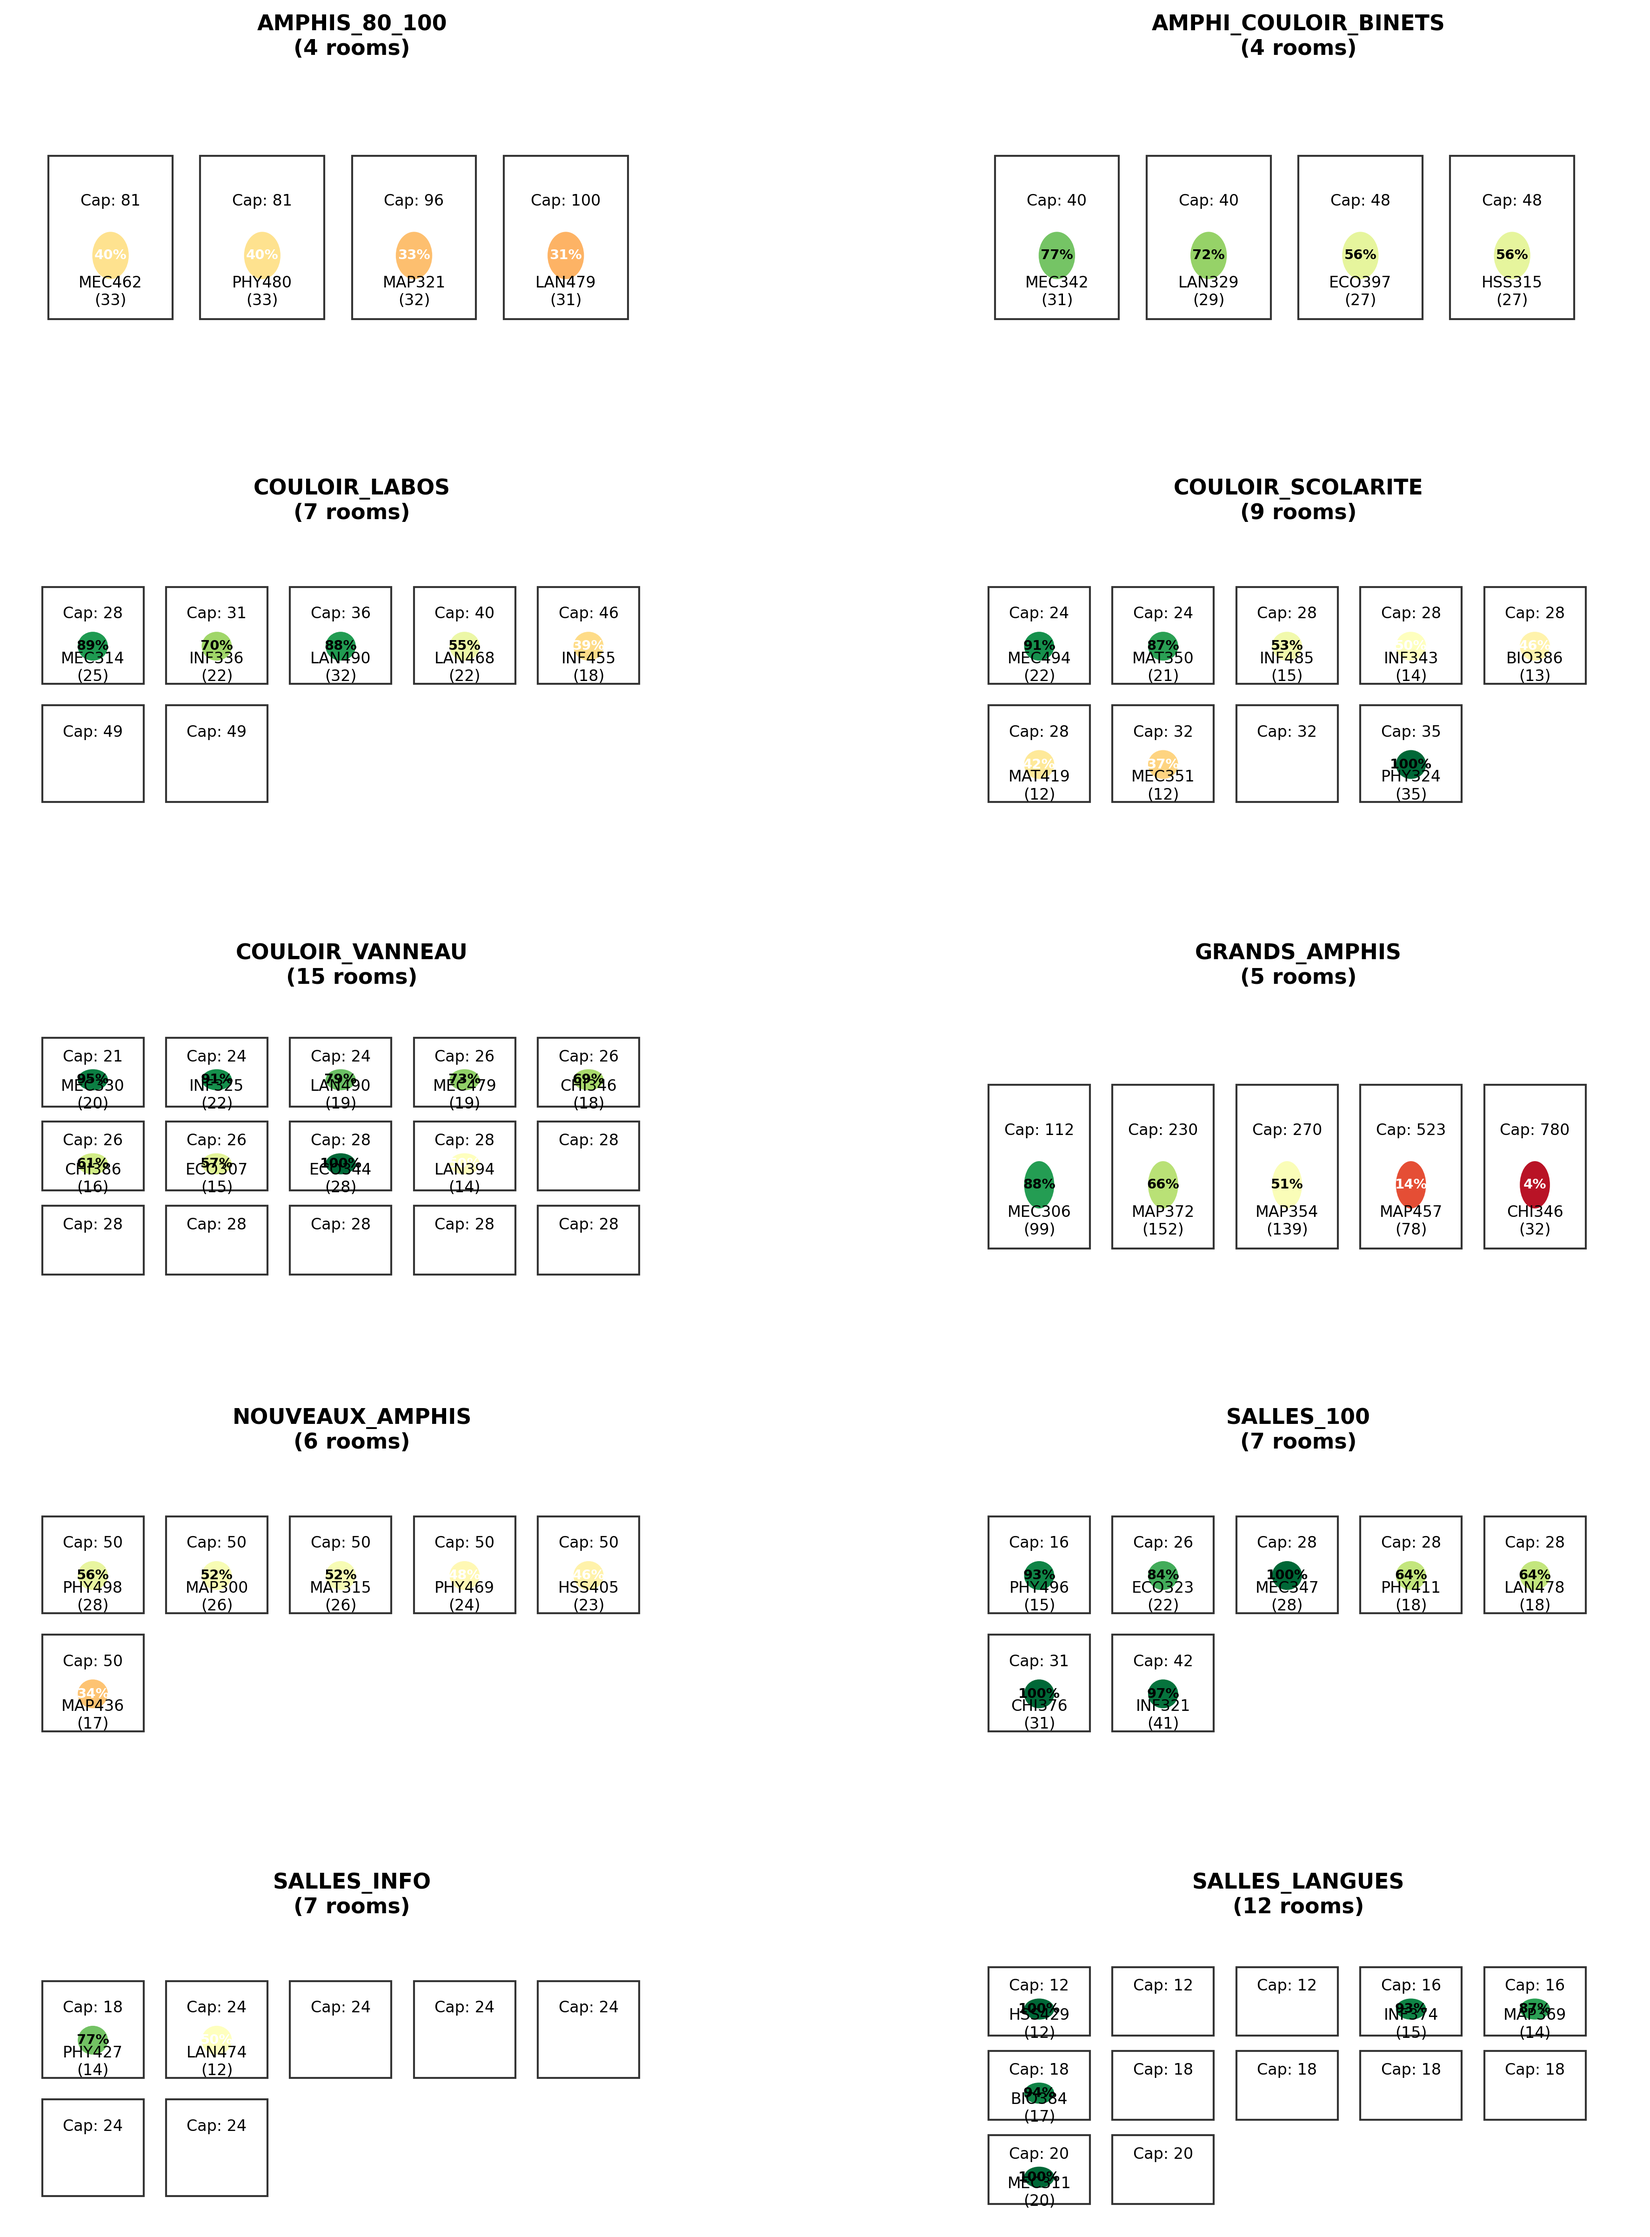
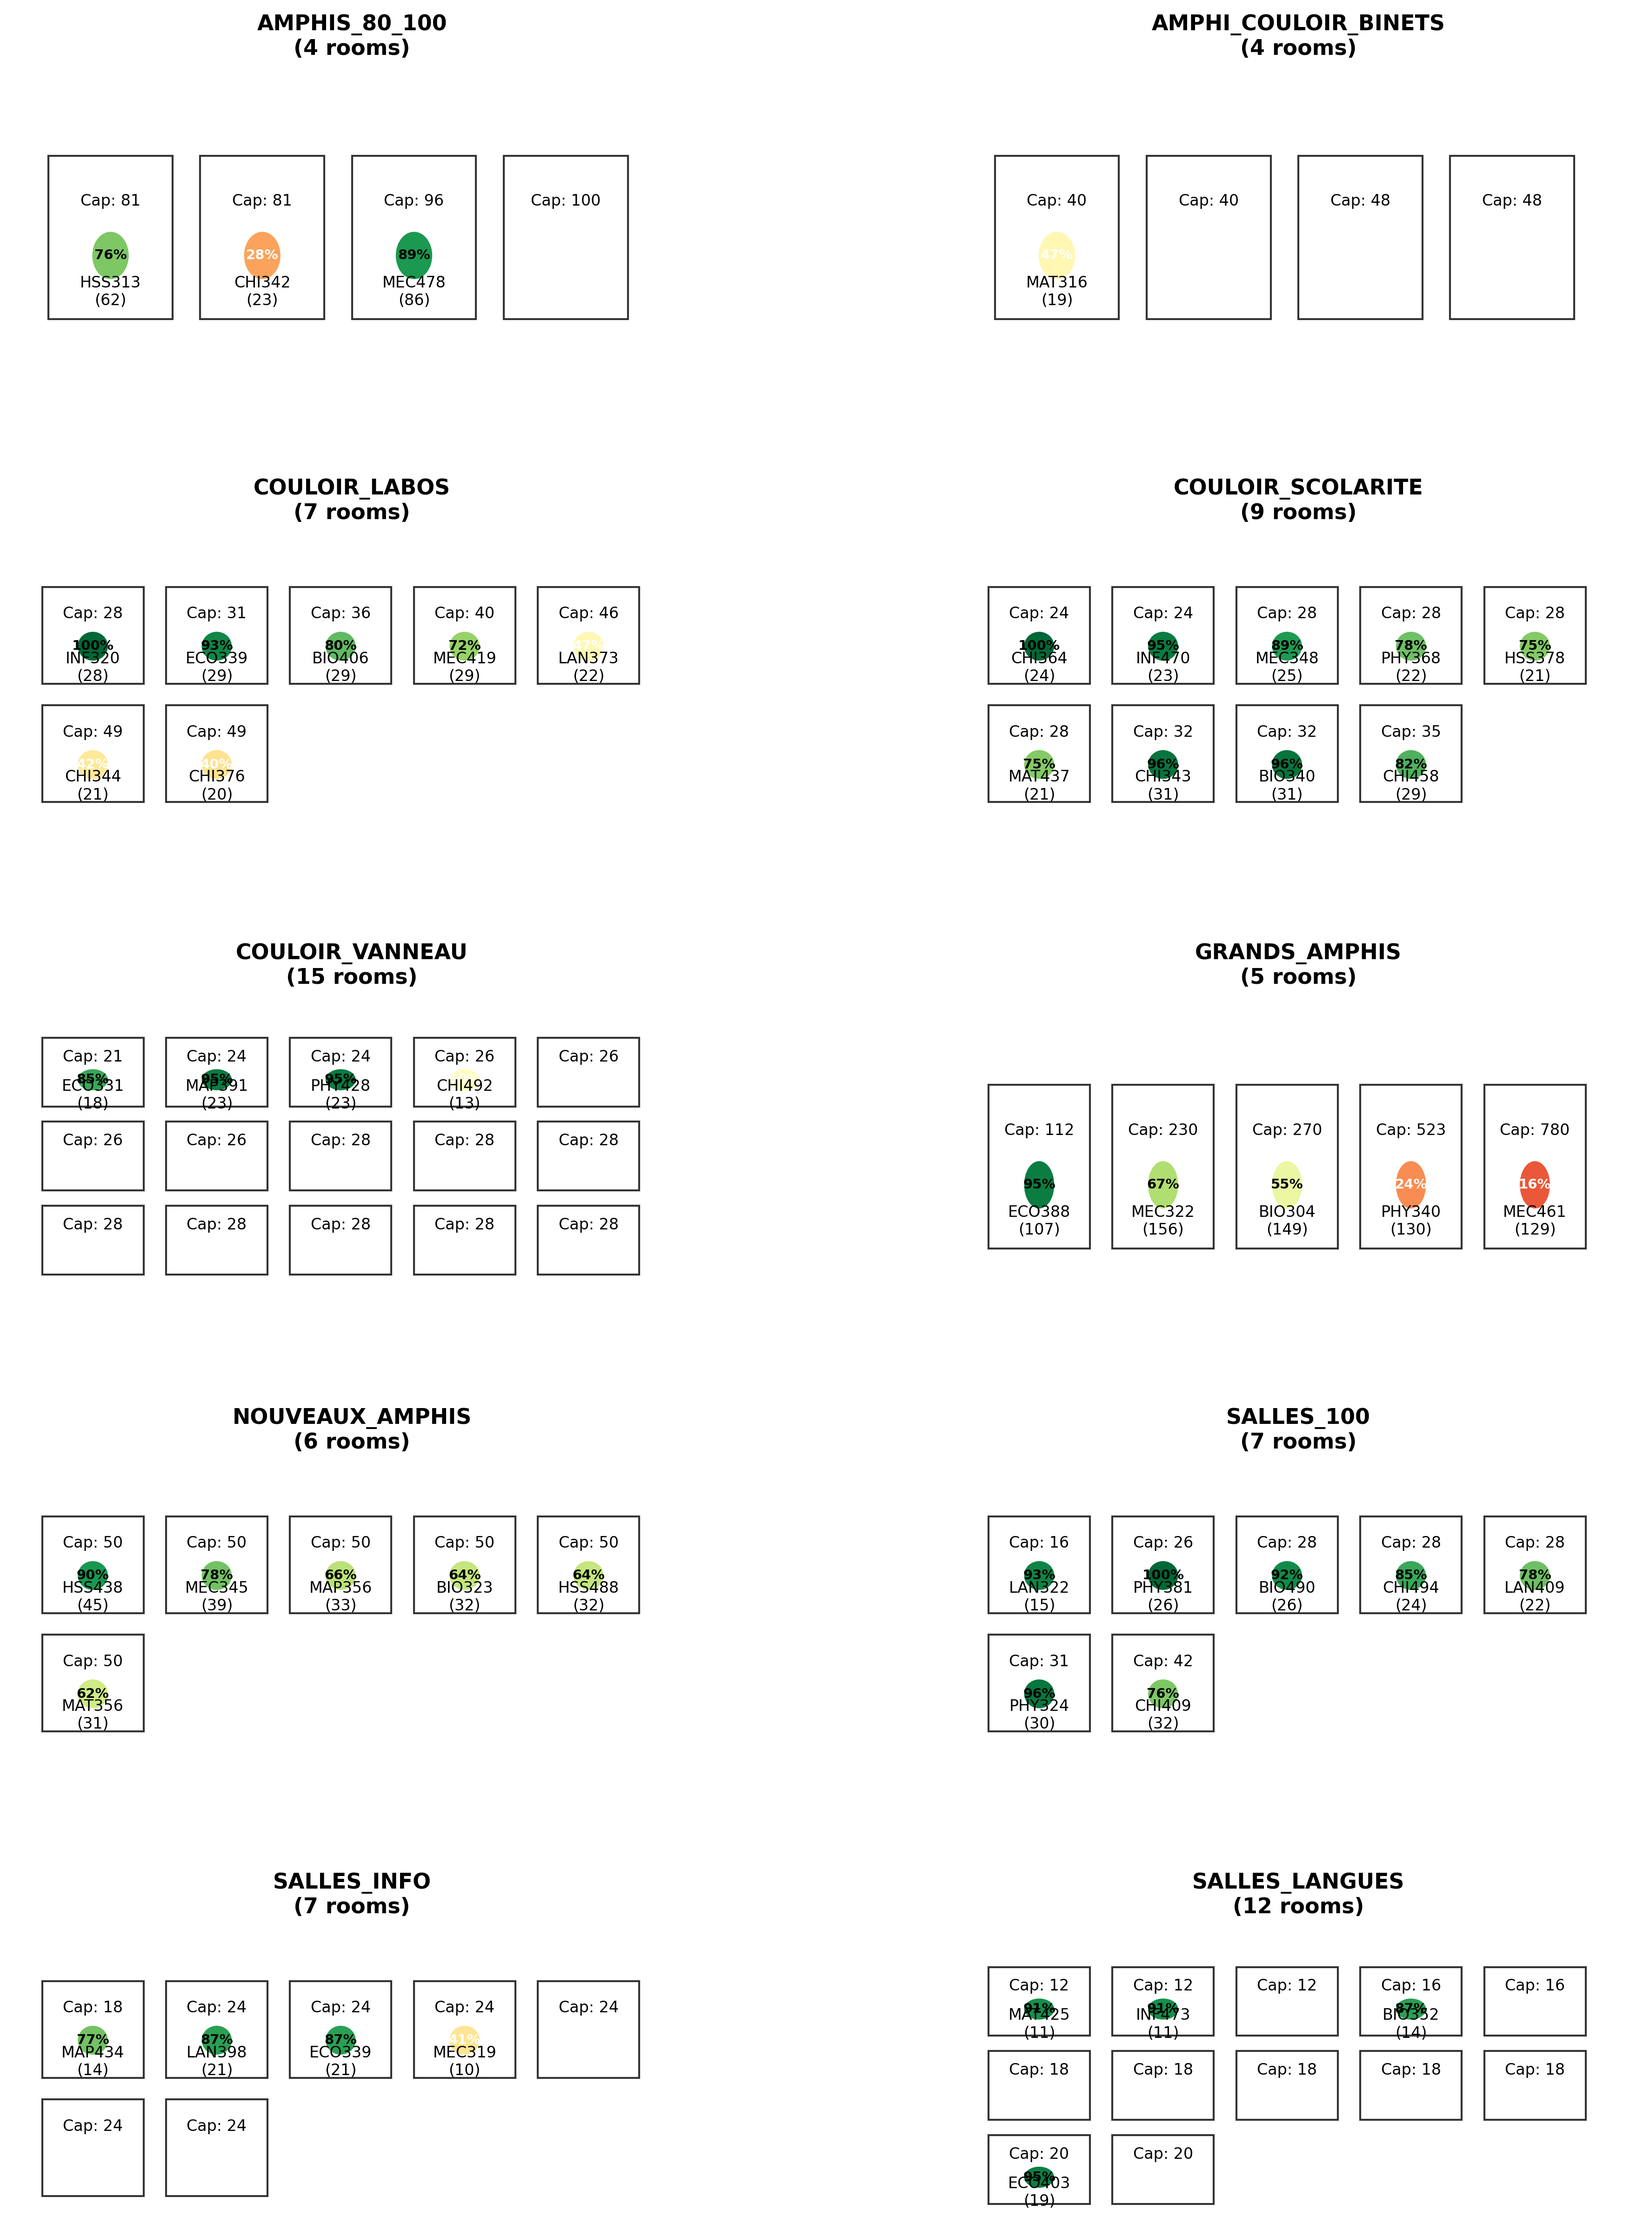
Implement SatisfactionBasedStrategy for preference generation; update Main to utilize new strategy and adjust visualization plot dimensions

diff --git a/room-allocation/src/main/java/com/roomallocation/strategy/SatisfactionBasedStrategy.java b/room-allocation/src/main/java/com/roomallocation/strategy/SatisfactionBasedStrategy.java
@@ -1,0 +1,103 @@
+package com.roomallocation.strategy;
+
+import java.util.ArrayList;
+import java.util.EnumMap;
+import java.util.List;
+import java.util.Map;
+import java.util.stream.Collectors;
+
+import com.roomallocation.model.Course;
+import com.roomallocation.model.Room;
+import com.roomallocation.model.RoomType;
+
+public class SatisfactionBasedStrategy extends PreferenceGenerationStrategy {
+    private final Map<RoomType, Double> satisfactionScores;
+    private final Map<RoomType, Integer> maxCapacities;
+    private final double temperatureFactor = 2.0; // Controls how much we favor higher-rated rooms
+
+    public SatisfactionBasedStrategy(int numPreferences, List<Room> rooms) {
+        super(numPreferences, "satisfaction");
+        
+        // Initialize satisfaction scores based on survey data
+        this.satisfactionScores = new EnumMap<>(RoomType.class);
+        satisfactionScores.put(RoomType.NOUVEAUX_AMPHIS, 4.24);
+        satisfactionScores.put(RoomType.SALLES_100, 3.67);
+        satisfactionScores.put(RoomType.COULOIR_SCOLARITE, 3.62);
+        satisfactionScores.put(RoomType.SALLES_LANGUES, 3.40);
+        satisfactionScores.put(RoomType.COULOIR_LABOS, 3.29);
+        satisfactionScores.put(RoomType.GRANDS_AMPHIS, 3.29);
+        satisfactionScores.put(RoomType.SALLES_INFO, 3.10);
+        satisfactionScores.put(RoomType.COULOIR_VANNEAU, 3.00);
+        satisfactionScores.put(RoomType.AMPHIS_80_100, 2.57);
+        satisfactionScores.put(RoomType.AMPHI_COULOIR_BINETS, 2.33);
+
+        // Track maximum capacity for each room type
+        this.maxCapacities = new EnumMap<>(RoomType.class);
+        for (Room room : rooms) {
+            maxCapacities.merge(room.getType(), room.getCapacity(), Math::max);
+        }
+    }
+
+    @Override
+    public List<RoomType> generatePreferences(Course course) {
+        int courseSize = course.getCohortSize();
+        
+        // Filter room types that can accommodate the course
+        List<RoomType> suitableTypes = maxCapacities.entrySet().stream()
+            .filter(e -> e.getValue() >= courseSize)
+            .map(Map.Entry::getKey)
+            .collect(Collectors.toList());
+            
+        // If no suitable rooms found, return empty list
+        if (suitableTypes.isEmpty()) {
+            return new ArrayList<>();
+        }
+
+        // Calculate weights based on satisfaction scores and apply softmax
+        double[] weights = new double[suitableTypes.size()];
+        double maxScore = 0;
+        for (int i = 0; i < suitableTypes.size(); i++) {
+            weights[i] = Math.exp(satisfactionScores.get(suitableTypes.get(i)) * temperatureFactor);
+            maxScore = Math.max(maxScore, weights[i]);
+        }
+
+        // Normalize weights
+        for (int i = 0; i < weights.length; i++) {
+            weights[i] /= maxScore;
+        }
+
+        // Generate preferences using weighted random selection
+        List<RoomType> preferences = new ArrayList<>();
+        List<RoomType> remainingTypes = new ArrayList<>(suitableTypes);
+        List<Double> remainingWeights = new ArrayList<>();
+        for (double weight : weights) {
+            remainingWeights.add(weight);
+        }
+
+        while (!remainingTypes.isEmpty() && preferences.size() < numPreferences) {
+            // Calculate sum of remaining weights
+            double totalWeight = remainingWeights.stream().mapToDouble(Double::doubleValue).sum();
+            
+            // Generate random value
+            double rand = random.nextDouble() * totalWeight;
+            
+            // Select room type based on weights
+            double cumSum = 0;
+            int selectedIndex = -1;
+            for (int i = 0; i < remainingWeights.size(); i++) {
+                cumSum += remainingWeights.get(i);
+                if (rand <= cumSum) {
+                    selectedIndex = i;
+                    break;
+                }
+            }
+            
+            // Add selected type to preferences and remove from remaining options
+            preferences.add(remainingTypes.get(selectedIndex));
+            remainingTypes.remove(selectedIndex);
+            remainingWeights.remove(selectedIndex);
+        }
+
+        return preferences;
+    }
+}

diff --git a/room-allocation/src/main/java/com/roomallocation/Main.java b/room-allocation/src/main/java/com/roomallocation/Main.java
@@ -21,7 +21,7 @@ public class Main {
     public static void main(String[] args) {
         try {
             int numSimulations = 10;
-            int numCourses = 60;
+            int numCourses = 65;
             int minSize = 10;
             int maxSize = 200;
             int changeSize = 35;
@@ -38,15 +38,16 @@ public class Main {
             // Add different strategies to test with varying numbers of preferences
             collector.addStrategy(new RandomPreferenceStrategy(3));
             collector.addStrategy(new RandomPreferenceStrategy(5));
-            collector.addStrategy(new RandomPreferenceStrategy(10));
             
             collector.addStrategy(new SizedBasedPreferenceStrategy(3, rooms));
             collector.addStrategy(new SizedBasedPreferenceStrategy(5, rooms));
-            collector.addStrategy(new SizedBasedPreferenceStrategy(10, rooms));
             
             collector.addStrategy(new SmartRandomPreferenceStrategy(3, rooms));
             collector.addStrategy(new SmartRandomPreferenceStrategy(5, rooms));
             collector.addStrategy(new SmartRandomPreferenceStrategy(10, rooms));
+
+            collector.addStrategy(new SatisfactionBasedStrategy(3, rooms));
+            collector.addStrategy(new SatisfactionBasedStrategy(5, rooms));
 
             collector.addStrategy(new FixedPreference(5));
             collector.addStrategy(new FixedPreference(10));
@@ -54,7 +55,7 @@ public class Main {
             // Run simulations with all strategies
             List<AllocationStatistics> stats = collector.runSimulations();
 
-            PreferenceGenerationStrategy bestStrategy = new SmartRandomPreferenceStrategy(5, rooms);
+            PreferenceGenerationStrategy bestStrategy = new SatisfactionBasedStrategy(10, rooms);
             CourseSimulator simulator = new CourseSimulator(bestStrategy);
             List<Course> courses = simulator.generateCourses(numCourses, minSize, maxSize, changeSize);
             TypeBasedAllocation allocator = new TypeBasedAllocation(courses, rooms);

diff --git a/room-allocation/target/classes/visualize.py b/room-allocation/target/classes/visualize.py
@@ -188,7 +188,7 @@ def plot_strategy_comparisons(data, output_dir):
     print(f"Generated strategy comparison plot")
 
     # Create additional plot for more detailed metrics with dual y-axes
-    fig, ax1 = plt.subplots(figsize=(10, 7))
+    fig, ax1 = plt.subplots(figsize=(12, 6))
     
     # Plot Average Choice on left y-axis
     color1 = '#2ecc71'  # Green
@@ -200,8 +200,7 @@ def plot_strategy_comparisons(data, output_dir):
                    alpha=0.7,
                    label='Average Choice')
     ax1.tick_params(axis='y', labelcolor=color1)
-    ax1.set_ylim(0, 5)  # Set y-axis limit
-
+    
     # Add value labels to the first set of bars
     for idx, v in enumerate(strategy_means['averageChoice']):
         ax1.text(idx, v + 0.1, f'{v:.2f}', 
@@ -228,13 +227,15 @@ def plot_strategy_comparisons(data, output_dir):
                 ha='center', va='bottom', color=color2, fontweight='bold')
     
     # Set x-axis labels
-    # Set x-axis labels
-    ax1.set_xticks(range(len(strategy_means)))
-    ax1.set_xticklabels(strategy_means.index, rotation=45, ha='right')
-    ax2.grid(False)
+    ax1.set_xticks(range(len(strategy_means)), 
+               strategy_means.index,
+               rotation=45,
+               ha='right')
+    
     ax1.grid(False)
+    ax2.grid(False)
     # Add title
-    plt.title('Strategy Performance Metrics Comparison, lower is  better', pad=20)
+    plt.title('Strategy Performance Metrics Comparison', pad=20)
     
     # Add legend
     lines1, labels1 = ax1.get_legend_handles_labels()

diff --git a/room-allocation/src/main/resources/visualize.py b/room-allocation/src/main/resources/visualize.py
@@ -227,11 +227,13 @@ def plot_strategy_comparisons(data, output_dir):
                 ha='center', va='bottom', color=color2, fontweight='bold')
     
     # Set x-axis labels
-    plt.xticks(range(len(strategy_means)), 
+    ax1.set_xticks(range(len(strategy_means)), 
                strategy_means.index,
                rotation=45,
                ha='right')
     
+    ax1.grid(False)
+    ax2.grid(False)
     # Add title
     plt.title('Strategy Performance Metrics Comparison', pad=20)
     
